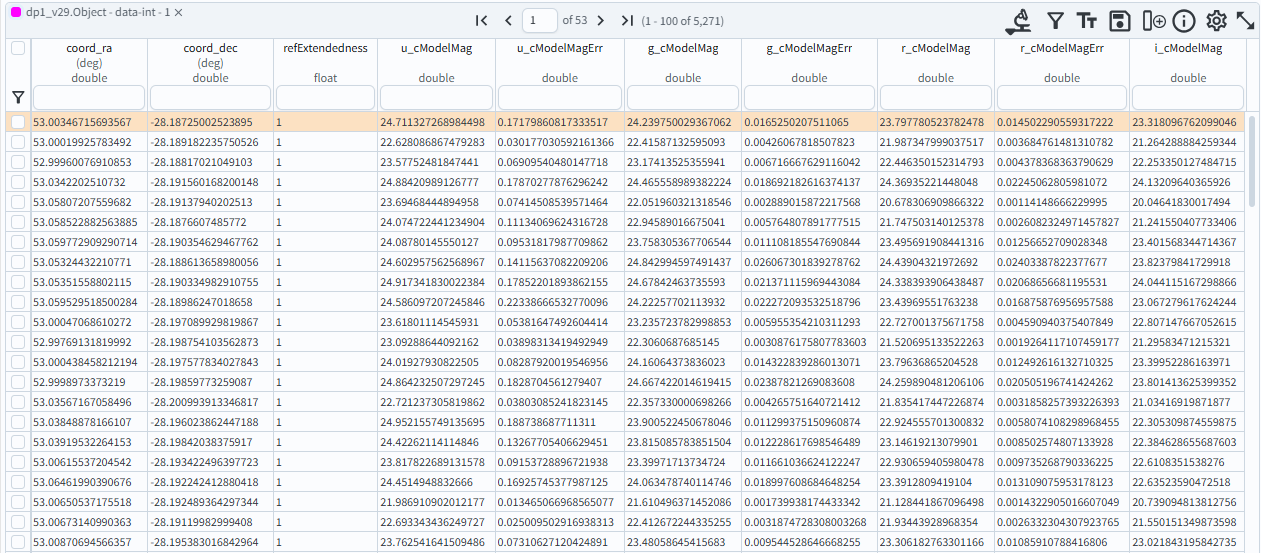
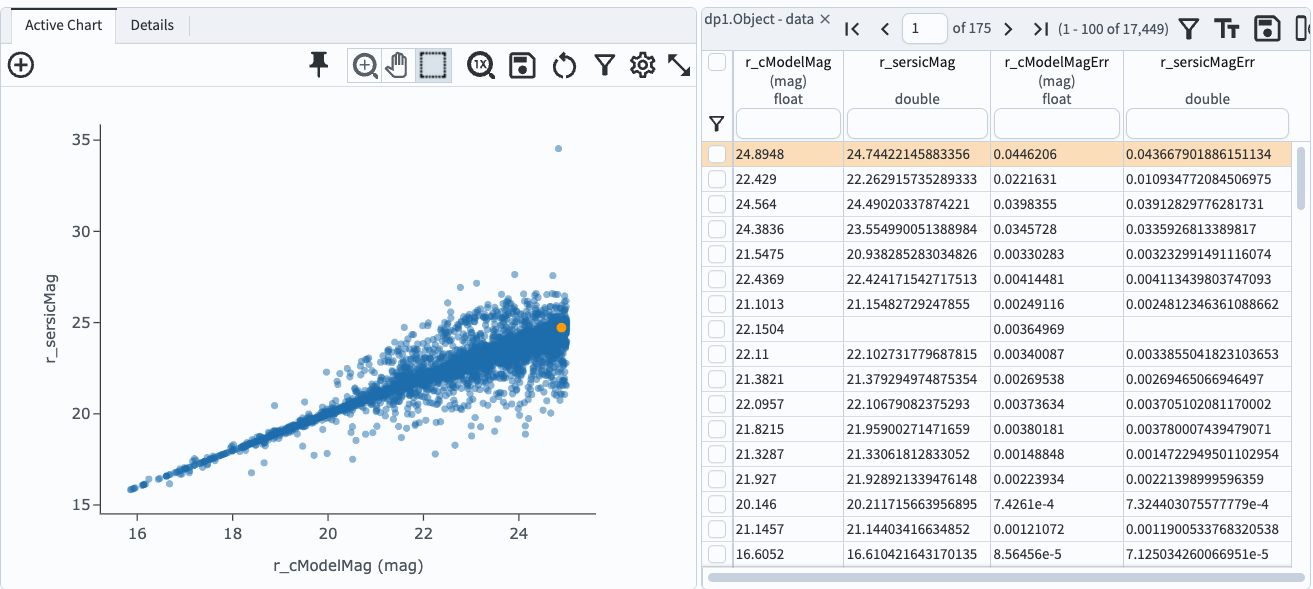
update 103 3

diff --git a/docs/tutorials/portal/103/portal-103-3.rst b/docs/tutorials/portal/103/portal-103-3.rst
@@ -20,77 +20,51 @@ Please consider acknowledging them if this tutorial is used for the preparation 
 **Get Support:** Everyone is encouraged to ask questions or raise issues in the `Support Category <https://community.lsst.org/c/support/6>`_ of the Rubin Community Forum.
 Rubin staff will respond to all questions posted there.
 
+----
+
+Magnitude conversions
+=====================
+
+While the ``Object`` table has columns for PSF and cModel magnitudes, all other photometry measures are provided only in fluxes (in nJy).
+These fluxes can be retrieved as AB magnitudes using the ``scisql_nanojanskyToAbMag()`` function, which applies the equation :math:`m = -2.5 log(f) + 31.4`, where :math:`m` is magnitude and :math:`f` is flux.
+
 **Warning!** Fluxes measured in difference images can be negative.
 Negative fluxes should not be converted to magnitudes using this special ADQL function.
 
+**Note:** for a demonstration of how to convert fluxes to magnitudes *after* a query is executed,
+see the tutorial on how to add a column to the results table.
+
+
+
 ----
 
-**1. Go to the DP0.2 catalog ADQL interface.**
-Navigate to the Portal's DP0.2 Catalogs tab and switch to the ADQL interface.
+**1. Go to the DP1 Catalogs ADQL interface.**
+Clear any past ADQL query statements from the query box.
 
-**2. To return magnitudes** use the ``scisql_nanojanskyToAbMag()`` function.
-This function will convert a flux value with the units of nanoJanskys (nJy) into an AB magnitude.
-The conversion is :math:`m = -2.5 log(f) + 31.4`, where :math:`m` is magnitude and :math:`f` is flux.
-
-.. code-block:: SQL
-
-  SELECT coord_ra,coord_dec,refExtendedness,
-         scisql_nanojanskyToAbMag(u_cModelFlux) AS u_cModelMag,
-         scisql_nanojanskyToAbMag(g_cModelFlux) AS g_cModelMag,
-         scisql_nanojanskyToAbMag(r_cModelFlux) AS r_cModelMag,
-         scisql_nanojanskyToAbMag(i_cModelFlux) AS i_cModelMag,
-         scisql_nanojanskyToAbMag(z_cModelFlux) AS z_cModelMag,
-         scisql_nanojanskyToAbMag(y_cModelFlux) AS y_cModelMag
-  FROM dp1_v29.Object
-  WHERE CONTAINS(POINT('ICRS', coord_ra, coord_dec),
-        CIRCLE('ICRS', 53.13, -28.1, 0.167))=1
-        AND (refExtendedness =1
-             AND u_cModelFlux >360 AND g_cModelFlux >360
-             AND r_cModelFlux >360 AND i_cModelFlux >360
-             AND z_cModelFlux >360 AND y_cModelFlux >360)
-
-**3. To return magnitude errors** use the ``scisql_nanojanskyToAbMagSigma()`` function.
-This funtion will convert the corresponding flux errors, in nJy, into AB magnitude errors.
+**2. Set up a query that returns magnitudes.**
+The following query returns the *r*-band cModel and Sersic magnitudes, and their errors, for objects brighter than 25th magnitude in *r*-band.
+The query uses the ``AS`` functionality to name the newly-calculated magnitude columns.
+The query includes a spatial constraint: a circle with radius 0.2 degrees near the center of the ECDFS field.
 
 .. code-block:: SQL
 
-  SELECT coord_ra, coord_dec, refExtendedness,
-         scisql_nanojanskyToAbMag(u_cModelFlux) AS u_cModelMag,
-         scisql_nanojanskyToAbMagSigma(u_cModelFlux, u_cModelFluxErr) AS u_cModelMagErr,
-         scisql_nanojanskyToAbMag(g_cModelFlux) AS g_cModelMag,
-         scisql_nanojanskyToAbMagSigma(g_cModelFlux, g_cModelFluxErr) AS g_cModelMagErr,
-         scisql_nanojanskyToAbMag(r_cModelFlux) AS r_cModelMag,
-         scisql_nanojanskyToAbMagSigma(r_cModelFlux, r_cModelFluxErr) AS r_cModelMagErr,
-         scisql_nanojanskyToAbMag(i_cModelFlux) AS i_cModelMag,
-         scisql_nanojanskyToAbMagSigma(i_cModelFlux, i_cModelFluxErr) AS i_cModelMagErr,
-         scisql_nanojanskyToAbMag(z_cModelFlux) AS z_cModelMag,
-         scisql_nanojanskyToAbMagSigma(z_cModelFlux, z_cModelFluxErr) AS z_cModelMagErr,
-         scisql_nanojanskyToAbMag(y_cModelFlux) AS y_cModelMag,
-         scisql_nanojanskyToAbMagSigma(y_cModelFlux, y_cModelFluxErr) AS y_cModelMagErr
-  FROM dp1_v29.Object
+  SELECT r_cModelMag,
+         scisql_nanojanskyToAbMag(r_sersicFlux) AS r_sersicMag,
+         r_cModelMagErr,
+         scisql_nanojanskyToAbMagSigma(r_sersicFlux, r_sersicFluxErr) AS r_sersicMagErr
+  FROM dp1.Object
   WHERE CONTAINS(POINT('ICRS', coord_ra, coord_dec),
-        CIRCLE('ICRS', 53.13, -28.1, 0.167)) =1
-        AND (refExtendedness =1
-            AND u_cModelFlux >360 AND g_cModelFlux >360
-            AND r_cModelFlux >360 AND i_cModelFlux >360
-            AND z_cModelFlux >360 AND y_cModelFlux >360)
+        CIRCLE('ICRS', 53.13, -28.1, 0.2))=1
+  AND r_cModelMag < 25
+  AND scisql_nanojanskyToAbMag(r_sersicFlux) < 25
 
 
-**4. Notice the query constraints** on coordinate, extendedness, and flux are set in order to
-retrieve a sample of extended sources (galaxies) brighter than 25th magnitude.
-
-**5. View the results.**
-Figure 1 shows the table panel in the Results tab for the query above.
-Notice that there are no flux columns because they were retrieved ``AS`` magnitudes,
-and the columns have been renamed as specified in the ADQL statement.
+**3. View the results.**
+Figure 1 shows the results interface, with the table containing only magnitudes and the default plot using the first two columns.
 
 .. figure:: images/portal-103-3-1.png
     :name: portal-103-3-1
     :alt: The table panel in the results tab shows the created magnitude columns.
 
-    Figure 1: The table panel in the Results tab for the query above shows no flux columns, but magnitude and magnitude error columns.
-
-
-**Note.** For a demonstration of how to convert fluxes to magnitudes after a query is executed,
-see the tutorial on how to add a column to the results table.
+    Figure 1: The table panel in the results interface shows no flux columns, but magnitude and magnitude error columns.
 
